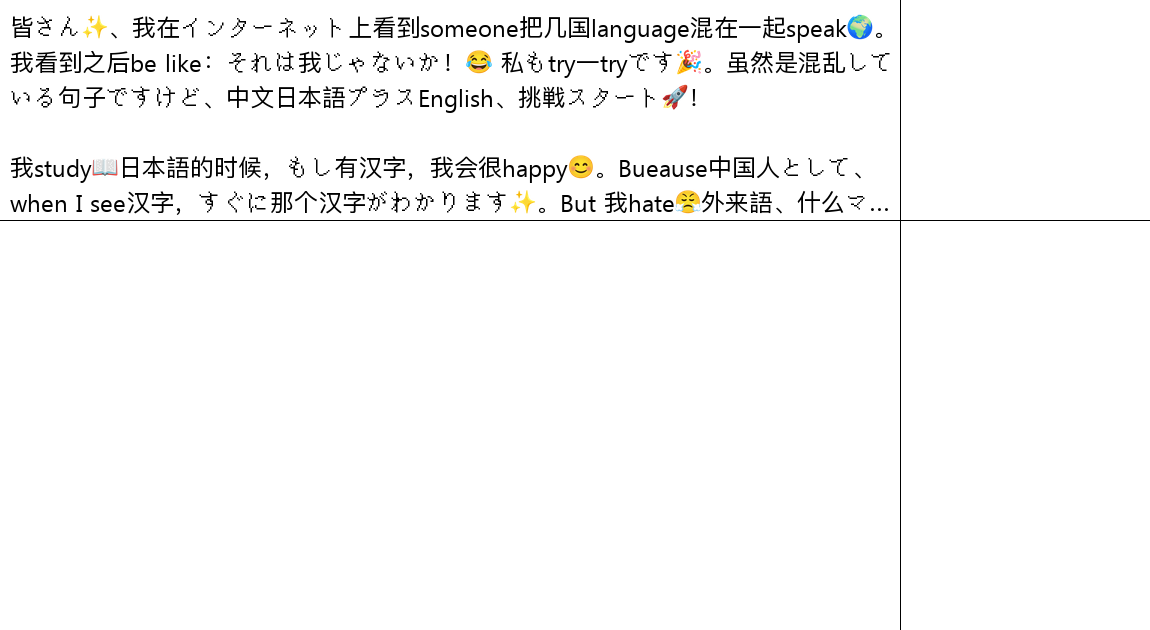
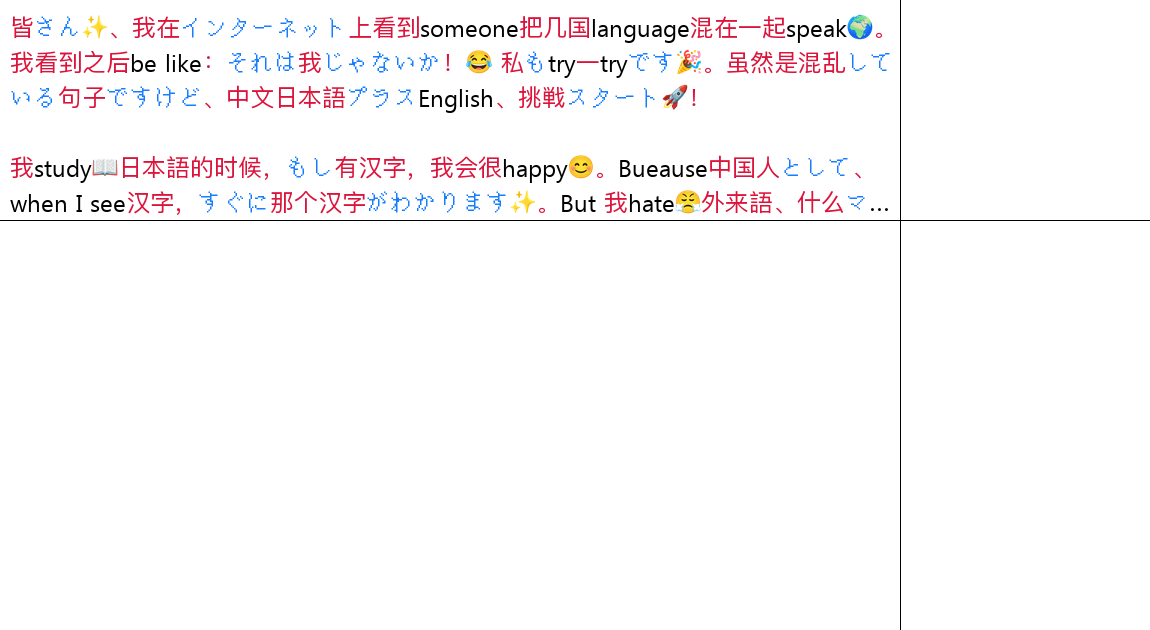
feat(power_text): 增加字体颜色自定义功能
- 在 Font 类中添加 color 参数，用于设置字体颜色
- 修改 draw_text 函数，支持使用 Font 类中的颜色设置
- 更新 example.py，演示如何使用新的字体颜色功能

diff --git a/src/power_text/power_text.py b/src/power_text/power_text.py
@@ -20,16 +20,19 @@ except AttributeError as e:
 
 
 class Font:
-    def __init__(self, font: ImageFont.FreeTypeFont, matcher: Callable[[str], bool], is_emoji: bool = False):
+    def __init__(self, font: ImageFont.FreeTypeFont, matcher: Callable[[str], bool], color: tuple[int, int, int] | None = None,
+                 is_emoji: bool = False):
         """
         初始化字体对象。
         :param font: 传入的字体对象或字符串
         :param matcher: 用于匹配文本字符的回调函数
+        :param color: 字体颜色，默认使用draw_text的颜色
         :param is_emoji: 是否是 emoji
         """
         self._font: ImageFont.FreeTypeFont = font
         self.matcher_func: Callable[[str], bool] = matcher
         self._is_emoji: bool = is_emoji
+        self.color: tuple[int, int, int] | None = color
 
     def matcher(self, text: str) -> bool:
         """
@@ -91,7 +94,7 @@ def _parse_text_segments(text: str, fonts: List[Font], has_emoji: bool, max_x: i
     if has_emoji:
         if not emoji:
             raise ImportError("If the rendering has text with emoji, install emoji: pip install emoji")
-        fonts.insert(0, Font(ImageFont.load_default(line_height), emoji.is_emoji, True))  # 处理 emoji
+        fonts.insert(0, Font(ImageFont.load_default(line_height), emoji.is_emoji, is_emoji=True))  # 处理 emoji
         fonts_y_line_height[fonts[0]] = line_height
     used_fonts = set()
     if max_x != -1:
@@ -277,10 +280,16 @@ def draw_text(img: Image.Image, xy: tuple[int, int], text: str, fonts: List[Font
             y_offset = 0
 
         if is_emoji_segment and pilmoji_instance:
-            pilmoji_instance.text((now_x, now_y + y_offset), text, color,
-                                  font=text_font.font)
+            if text_font.color:
+                pilmoji_instance.text((now_x, now_y + y_offset), text, text_font.color,
+                                      font=text_font.font)
+            else:
+                pilmoji_instance.text((now_x, now_y + y_offset), text, color, font=text_font.font)
         else:
-            draw.text((now_x, now_y + y_offset), text, color, font=text_font.font)
+            if text_font.color:
+                draw.text((now_x, now_y + y_offset), text, text_font.color, font=text_font.font)
+            else:
+                draw.text((now_x, now_y + y_offset), text, color, font=text_font.font)
 
         last_x, last_y = now_x, now_y
         last_text_w = text_font.get_size(text, has_emoji)[0]

diff --git a/example.py b/example.py
@@ -3,10 +3,10 @@ import time
 
 from PIL import Image, ImageFont, ImageDraw
 
-# import src.power_text as power_text
-import power_text as power_text
-# from src.power_text import local_emoji_source
-from power_text import local_emoji_source
+import src.power_text as power_text
+# import power_text as power_text
+from src.power_text import local_emoji_source
+# from power_text import local_emoji_source
 
 jap = re.compile(r'[\u3040-\u309F\u30A0-\u30FF]')
 
@@ -39,9 +39,9 @@ power_text.draw_text(
 awa
     """.strip(),
     [
-        power_text.Font(font4, lambda char: char.lower() in "abcdefghijklmnopqrstuvwxyz0123456789"),
-        power_text.Font(font3, lambda char: jap.match(char) is not None),
-        power_text.Font(font2, lambda _: True)
+        power_text.Font(font4, lambda char: char.lower() in "abcdefghijklmnopqrstuvwxyz0123456789", (0, 0, 0)),
+        power_text.Font(font3, lambda char: jap.match(char) is not None, (22, 125, 255)),
+        power_text.Font(font2, lambda _: True, (220, 20, 60))
     ],
     (0, 0, 0),  # 字体颜色
     max_x=900,  # 最大宽度（超过自动换行）
